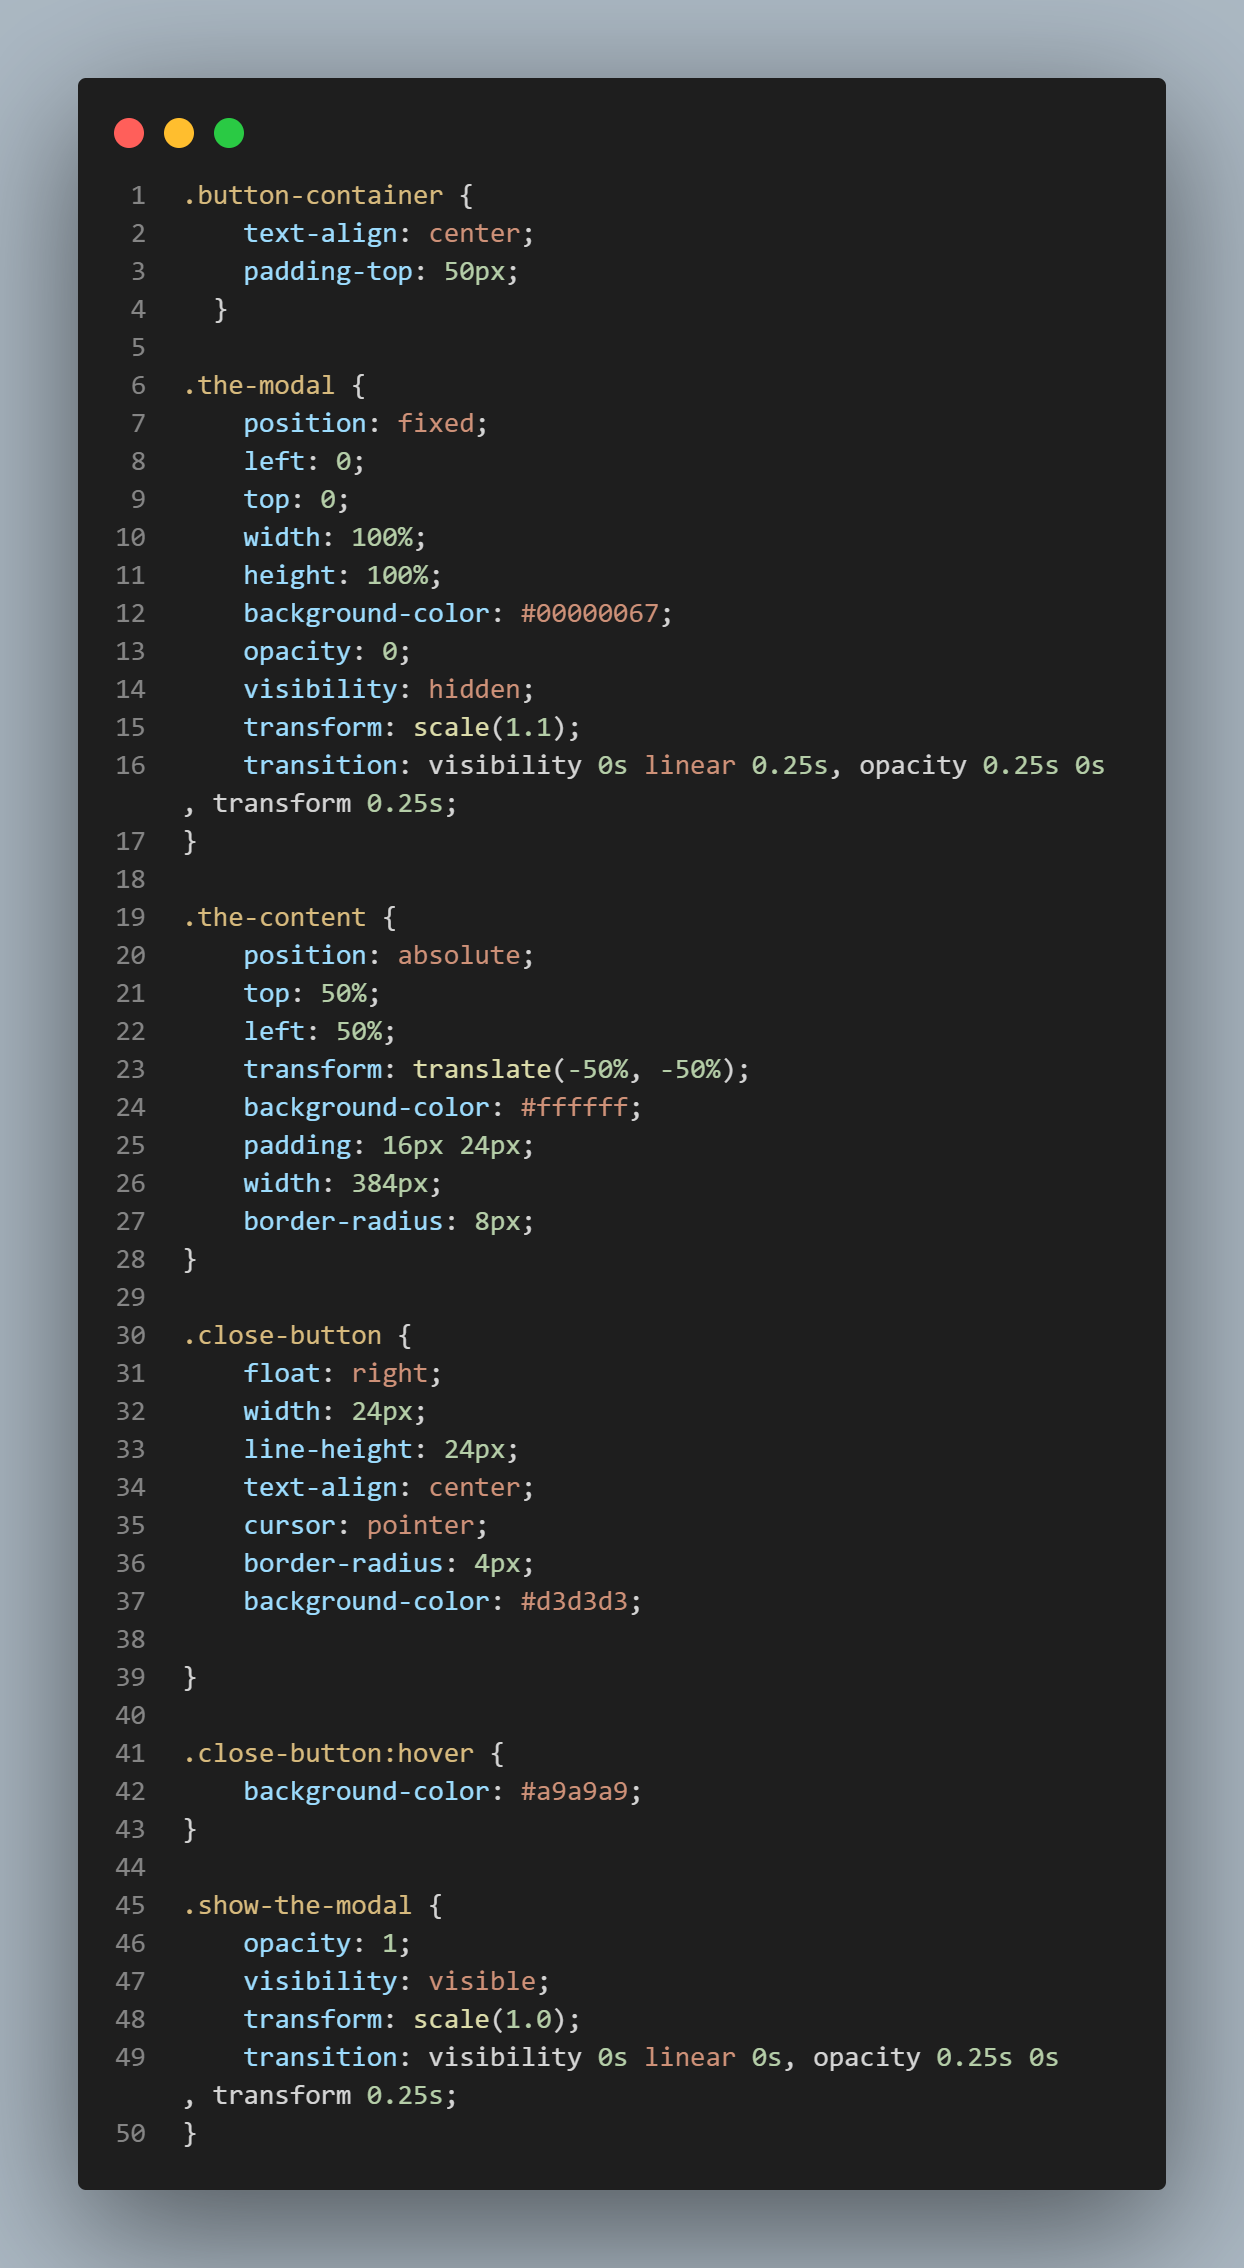
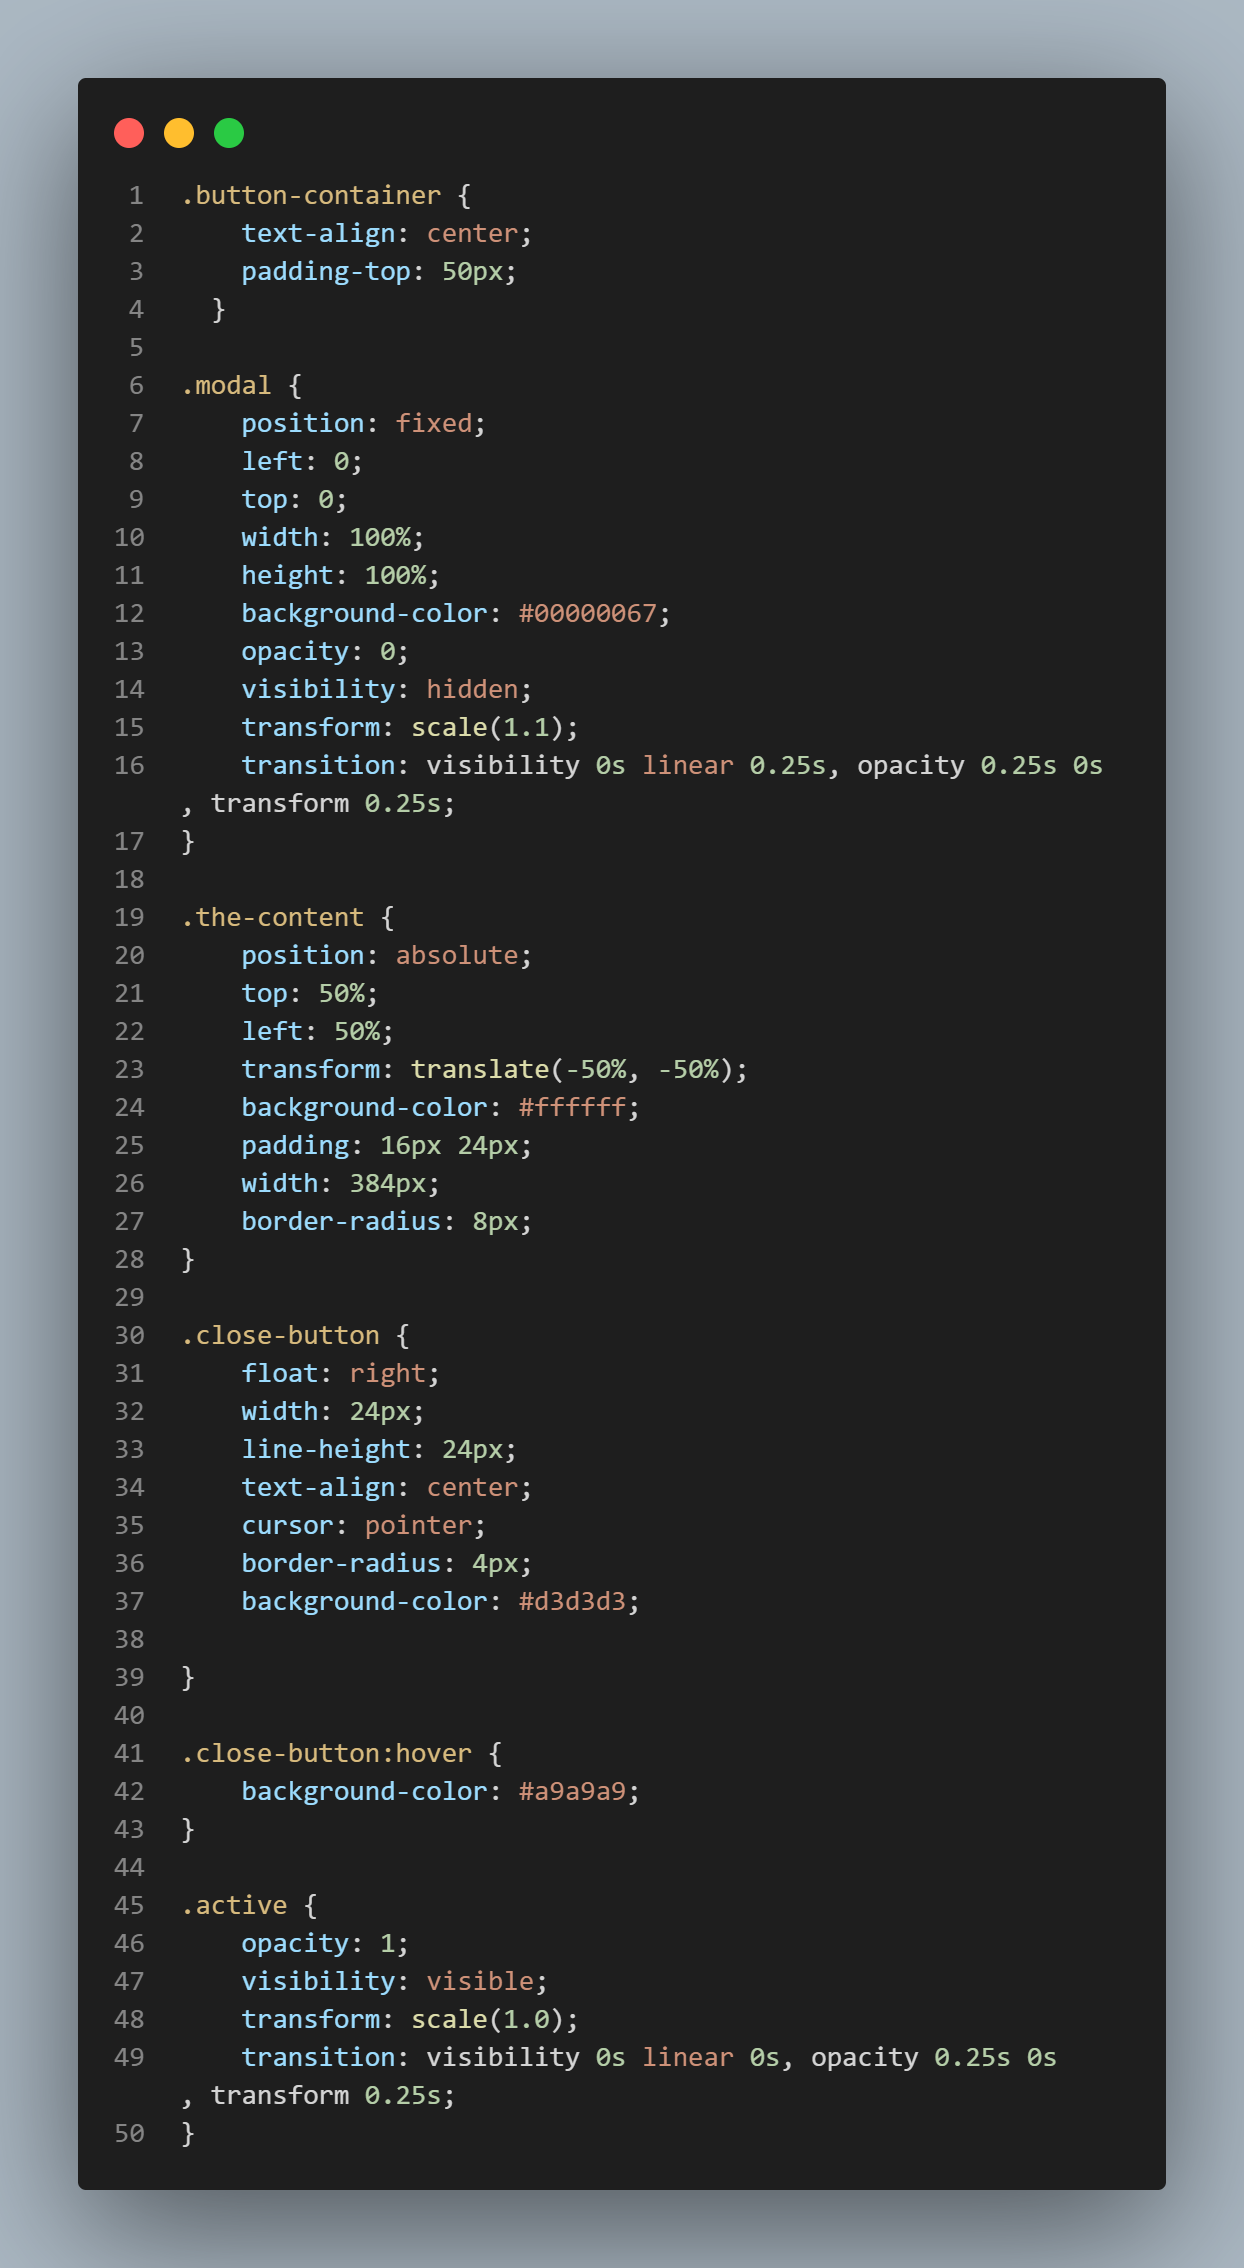
Editing changes for article

diff --git a/script.js b/script.js
@@ -1,9 +1,9 @@
-const modal = document.querySelector(".the-modal");
+const modal = document.querySelector(".modal");
 const activate = document.querySelector(".activate");
 const closeButton = document.querySelector(".close-button");
 
 function toggleModal() {
-    modal.classList.toggle("show-the-modal");
+    modal.classList.toggle("active");
 }
 
 function windowOnClick(event) {

diff --git a/index.html b/index.html
@@ -1,7 +1,7 @@
 <div class="button-container">
     <button class="activate">Click Me!</button>
 </div>
-<div class="the-modal">
+<div class="modal">
     <div class="the-content">
         <span class="close-button">&times;</span>
         <h1>Look at me! I'm an easy Modal!</h1>

diff --git a/style.css b/style.css
@@ -3,7 +3,7 @@
     padding-top: 50px;
   }
 
-.the-modal {
+.modal {
     position: fixed;
     left: 0;
     top: 0;
@@ -42,7 +42,7 @@
     background-color: #a9a9a9;
 }
 
-.show-the-modal {
+.active {
     opacity: 1;
     visibility: visible;
     transform: scale(1.0);

diff --git a/README.md b/README.md
@@ -1,5 +1,8 @@
 # Modal Made Easy
 
 This repository is for a blog post.
+
 You can check it out at:
-You can view the CodePen at:
+
+You can view the CodePen at: [Modal Made Easy](https://codepen.io/fitzwebdev/pen/jOqjbNr)
+
